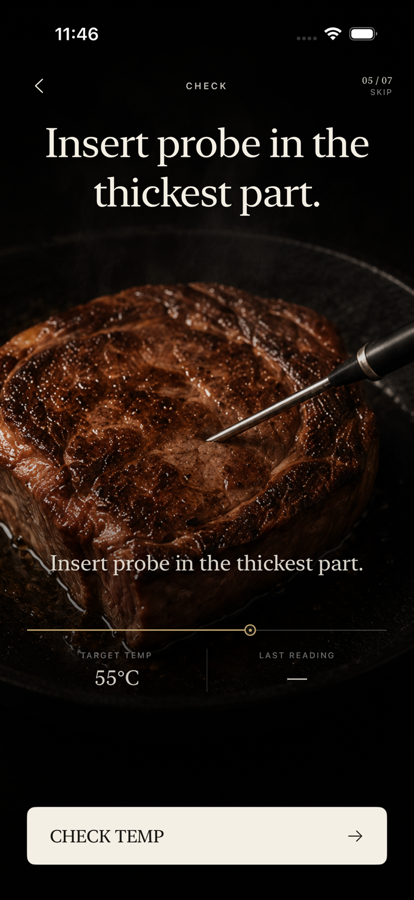
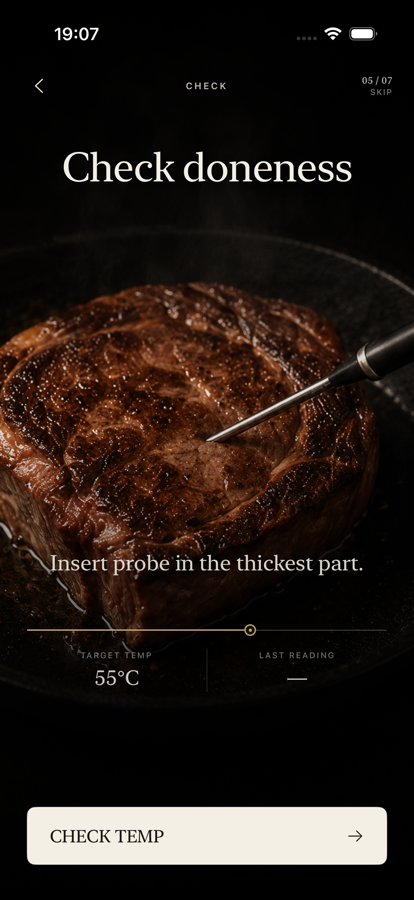
Use the hero band as a readout instead of repeating the instruction
Reviewing the captured stage screenshots showed the hero band printing the same
sentence as the instruction, once at 40pt and again at 21pt, at every action
moment:

  FLIP      "Flip now."                    / "Flip now."
  FAT CAP   "Sear the fat edge."           / "Sear the fat edge."
  BUTTER    "Add butter and aromatics."    / "Add butter and aromatics."
  CHECK     "Insert probe in the thickest…" / "Insert probe in the thickest…"

heroValue fell through to instructionTitle for the default case. That predates
the layout work and contradicts the editorial design, which specifies a hero
timer/readout plus one instruction.

The hero now shows a readout naming the action in flight, using the existing
translated CookingAction titles; the CHECK TEMP action keeps the "Check
doneness" readout so the hero does not echo the CHECK TEMP button sitting
directly beneath it. The hero slot stays fixed, so this changes a band's content
without moving any slot.

The committed screenshots were re-captured from the verified run.

Changed region(s): [[0.1159, 0.1244, 0.8986, 0.2489], [0.1449, 0.0311, 0.2319, 0.0622]]

diff --git a/SteakCopilot/Features/Session/CookingSessionView.swift b/SteakCopilot/Features/Session/CookingSessionView.swift
@@ -645,13 +645,31 @@ struct CookingSessionView: View {
         }
     }
 
+    /// The hero band holds a **timer or readout**; the instruction band carries
+    /// the sentence (see the editorial design: "a hero timer/readout … and one
+    /// instruction").
+    ///
+    /// When no stage timer is running, the readout names the pending action.
+    /// It used to fall through to `instructionTitle`, which printed the same
+    /// sentence twice — once at 40pt and again at 21pt — at every action moment
+    /// (FLIP, FAT CAP, BUTTER, CHECK).
     private func heroValue(at date: Date) -> String {
         switch controller.session.phase {
         case .prep: String(localized: "Ready the steak")
         case .heat: String(localized: "Heat the pan")
         case .checkTemperature: String(localized: "Check doneness")
         case .finishing: estimatedFinishRange
-        default: instructionTitle(at: date)
+        default: heroReadout
+        }
+    }
+
+    /// The readout naming the action in flight. The CHECK TEMP action reuses the
+    /// phase's existing readout so the hero does not echo the CHECK TEMP button
+    /// label sitting right below it.
+    private var heroReadout: String {
+        switch controller.guidance.currentAction {
+        case .checkTemperature: String(localized: "Check doneness")
+        default: controller.guidance.currentAction.title
         }
     }
 

diff --git a/docs/verification/2026-09-11-session-layout-skeleton.md b/docs/verification/2026-09-11-session-layout-skeleton.md
@@ -90,6 +90,41 @@ the same test failed on `session.hero` in SEAR · FAT CAP, BUTTER · BASTE and
 CHECK with `minY 114.17 vs 138.0` — a 24pt shift caused purely by the hero
 swapping type size.
 
+## Fix found by reviewing the captured screenshots
+
+Reviewing the captures (rather than only the frame numbers) exposed a defect the
+geometry assertions could not see: the hero band printed **the same sentence as
+the instruction**, once at 40pt and again at 21pt, at every action moment.
+
+```
+FLIP      hero "Flip now."                       instruction "Flip now."
+FAT CAP   hero "Sear the fat edge."              instruction "Sear the fat edge."
+BUTTER    hero "Add butter and aromatics."       instruction "Add butter and aromatics."
+CHECK     hero "Insert probe in the thickest…"   instruction "Insert probe in the thickest…"
+```
+
+`heroValue` fell through to `instructionTitle` for the default case. That
+predates the skeleton work (verified against `c470ead`) and contradicts the
+editorial design, which specifies "a hero timer/readout … and one instruction".
+The hero is now a readout naming the action in flight (`CookingAction.title`,
+already translated in `Localizable.xcstrings`), falling back to the existing
+"Check doneness" readout for the CHECK TEMP action so the hero does not echo the
+CHECK TEMP button directly beneath it. The hero slot was already exempt from the
+fixed-`minY` assertion, so this changes the content of a fixed band without
+affecting any slot geometry.
+
+## Configuration note (harness, not app)
+
+The DSH harness declared the active model as text-only, so image reads were
+refused with "does not declare image input". The pi-ai adapter's per-model field
+is `input` — `inputModalities` is the *native* `llm-deepseek` spelling, ignored
+by `llm-pi-ai`, whose absent field defaults to `["text"]`. Both
+`deepseek/deepseek-v4.1-flash` and `deepseek/deepseek-v4-flash-vision-exp` were
+probed against the route and confirmed to answer correctly about a known image
+*before* being declared: over-claiming fails mid-turn after the message is
+durable, while under-claiming fails safely before attach. This is what allowed
+the captures above to be reviewed visually.
+
 ## Screenshots
 
 `docs/verification/screenshots/session-skeleton/` — 8 captures, one per distinct
